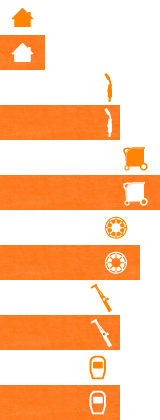
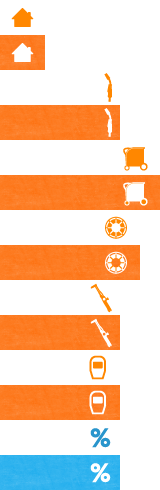
Add Breadcrumb

diff --git a/frontend/_resources/styles/sbschweissshop_v2.css b/frontend/_resources/styles/sbschweissshop_v2.css
@@ -3,6 +3,9 @@ body {font-family: 'Arvo', serif; font-weight: 400; font-size: 12px;}
 html {background: url("../images/backgrounds/gra_hg_grau.jpg") repeat scroll 0 0 transparent; padding-top: 15px;}
 #top {width: 1020px; margin: auto; text-align: right;}
 .container_20 {width: 1020px; margin-top: 15px; border: none; background-color: transparent;}
+#content {margin-top: 0;}
+#content #center {margin: 0;}
+#content .inner {width: 1020px;}
 
 /* Header */
 #top a.account {font-weight: 700; color: #4d4d4d;}
@@ -17,37 +20,43 @@ div.inner_searchcontainer {margin: 0;}
 form#searchform input#searchfield {background: url("../images/buttons/gra_suche_left.jpg") no-repeat scroll 0 0 transparent; width: 218px; height: 25px; padding-left: 5px; border: none; padding-top: 1px;}
 div.inner_searchcontainer #submit_search {cursor: pointer; background: url("../images/buttons/gra_suche_right.jpg") no-repeat scroll 0 0 transparent; width: 23px; height: 25px;}
 div.inner_searchcontainer .ajax_loader {left: 250px;}
-
 #shopnavi .newbasket {right: -320px;}
 
-.wrapper_menu {width: 825px !important; padding: 0; margin-top: 0;}
-.wrapper_menu .menu {height: 36px !important; margin: 0 !important;}
+/* Main Navigation */
+.wrapper_menu {width: 825px !important; padding: 0; margin-top: 0; height: 35px; margin: 0;}
+.wrapper_menu .menu {height: 35px !important; margin: 0 !important;}
 .menu li, .menu li:hover {padding: 0 !important; margin: 0;}
-.menu li.nodrop a {background: url("../images/buttons/btn_menu.png") repeat scroll -1px -1px transparent; display: block; height: 25px; width: 43px; padding: 0;}
-.menu li.nodrop a:hover, .menu li.nodrop a.active {background-position: -1px -36px; padding: 0; width: 43px; height: 33px;}
+.menu li.nodrop a {background: url("../images/buttons/btn_menu.png") repeat scroll -1px 0px transparent; display: block; height: 35px; width: 43px; padding: 0; border: none;}
+.menu li.nodrop a:hover, .menu li.nodrop a.active {background-position: -1px -35px; padding: 0; width: 43px; height: 35px;}
 .menu li a {color: #000; font-weight: 700; line-height: 24px; border-top: 1px solid #efefef; border-right: 1px solid #efefef; font-family: 'Arvo', serif !important;}
 .menu li a.active {color: #fff;}
-
 .menu li a.cat940 {background: url("../images/buttons/btn_menu.png") repeat scroll 0 -71px transparent !important; display: block; height: 25px; width: auto; padding-right: 17px; padding-left: 10px;}
 .menu li a.cat940.active {background-position: 0 -106px !important; width: auto;}
-
 .menu li a.cat939 {background: url("../images/buttons/btn_menu.png") repeat scroll 0px -141px transparent !important; display: block; height: 25px; width: auto; padding-right: 44px; padding-left: 10px}
 .menu li a.cat939.active {background-position: 0px -176px !important;}
-
 .menu li a.cat941 {background: url("../images/buttons/btn_menu.png") repeat scroll -1px -211px transparent !important; display: block; height: 25px; width: auto; padding-right: 43px; padding-left: 10px}
 .menu li a.cat941.active {background-position: -1px -246px !important;}
-
 .menu li a.cat942 {background: url("../images/buttons/btn_menu.png") repeat scroll -6px -281px transparent !important; display: block; height: 25px; width: auto; padding-right: 40px; padding-left: 10px}
 .menu li a.cat942.active {background-position: -6px -316px !important;}
-
 .menu li a.cat943 {background: url("../images/buttons/btn_menu.png") repeat scroll -6px -351px transparent !important; display: block; height: 25px; width: auto; padding-right: 40px; padding-left: 10px}
 .menu li a.cat943.active {background-position: -6px -386px !important;}
-
-.menu li a.cat1087 {background: url("../images/buttons/btn_menu.png") repeat scroll -6px -351px transparent !important; display: block; height: 25px; width: auto; padding-right: 40px; padding-left: 10px}
-.menu li a.cat1087.active {background-position: -6px -386px !important;}
-
+.menu li a.cat1087 {background: url("../images/buttons/btn_menu.png") repeat scroll -6px -420px transparent !important; display: block; height: 25px; width: auto; padding-right: 40px; padding-left: 10px}
+.menu li a.cat1087.active {background-position: -6px -455px !important;}
 .menu li a.active:hover {color: #ffffff !important;}
-
 .menu_light_theme ul li:hover .drop {border-radius: 0; background-color: transparent; height: 25px; color: #000;}
-
 .menu li:hover .dropdown_fullwidth {margin-top: -5px !important; width: 825px !important;}
+
+/* Breadcrumb */
+div#breadcrumb {background: url("../images/backgrounds/gra_bc_bar.jpg") repeat scroll 0 0 transparent; height: 25px; border: none; padding: 0;width: 1020px;}
+div#breadcrumb a {font-family: 'Open Sans', sans-serif; color: #ffffff; background: url("../images/buttons/gra_bc.png") repeat scroll right 0 transparent; padding: 4px 18px 4px 10px; position: relative; top: -6px; left: 0px; z-index: 999999;}
+div#breadcrumb a.item0 {padding: 4px 18px 4px 15px; left: -10px; z-index: 888888;}
+div#breadcrumb a.item1 {padding: 4px 18px 4px 15px; left: -20px; z-index: 777777;}
+div#breadcrumb a.item2 {padding: 4px 18px 4px 15px; left: -30px; z-index: 666666;}
+div#breadcrumb a.item3 {padding: 4px 18px 4px 15px; left: -40px; z-index: 555555;}
+div#breadcrumb a.item4 {padding: 4px 18px 4px 15px; left: -50px; z-index: 444444;}
+div#breadcrumb a.item5 {padding: 4px 18px 4px 15px; left: -60px; z-index: 333333;}
+
+/* Slider Home */
+#center .slider_banner .bannerSlider .sliding_outer, #center .slider_banner .bannerSlider {width: 1020px;}
+#content .inner, #content .inner div#center {width: 1020px;}
+#center .slider_banner {width: 1020px;}
